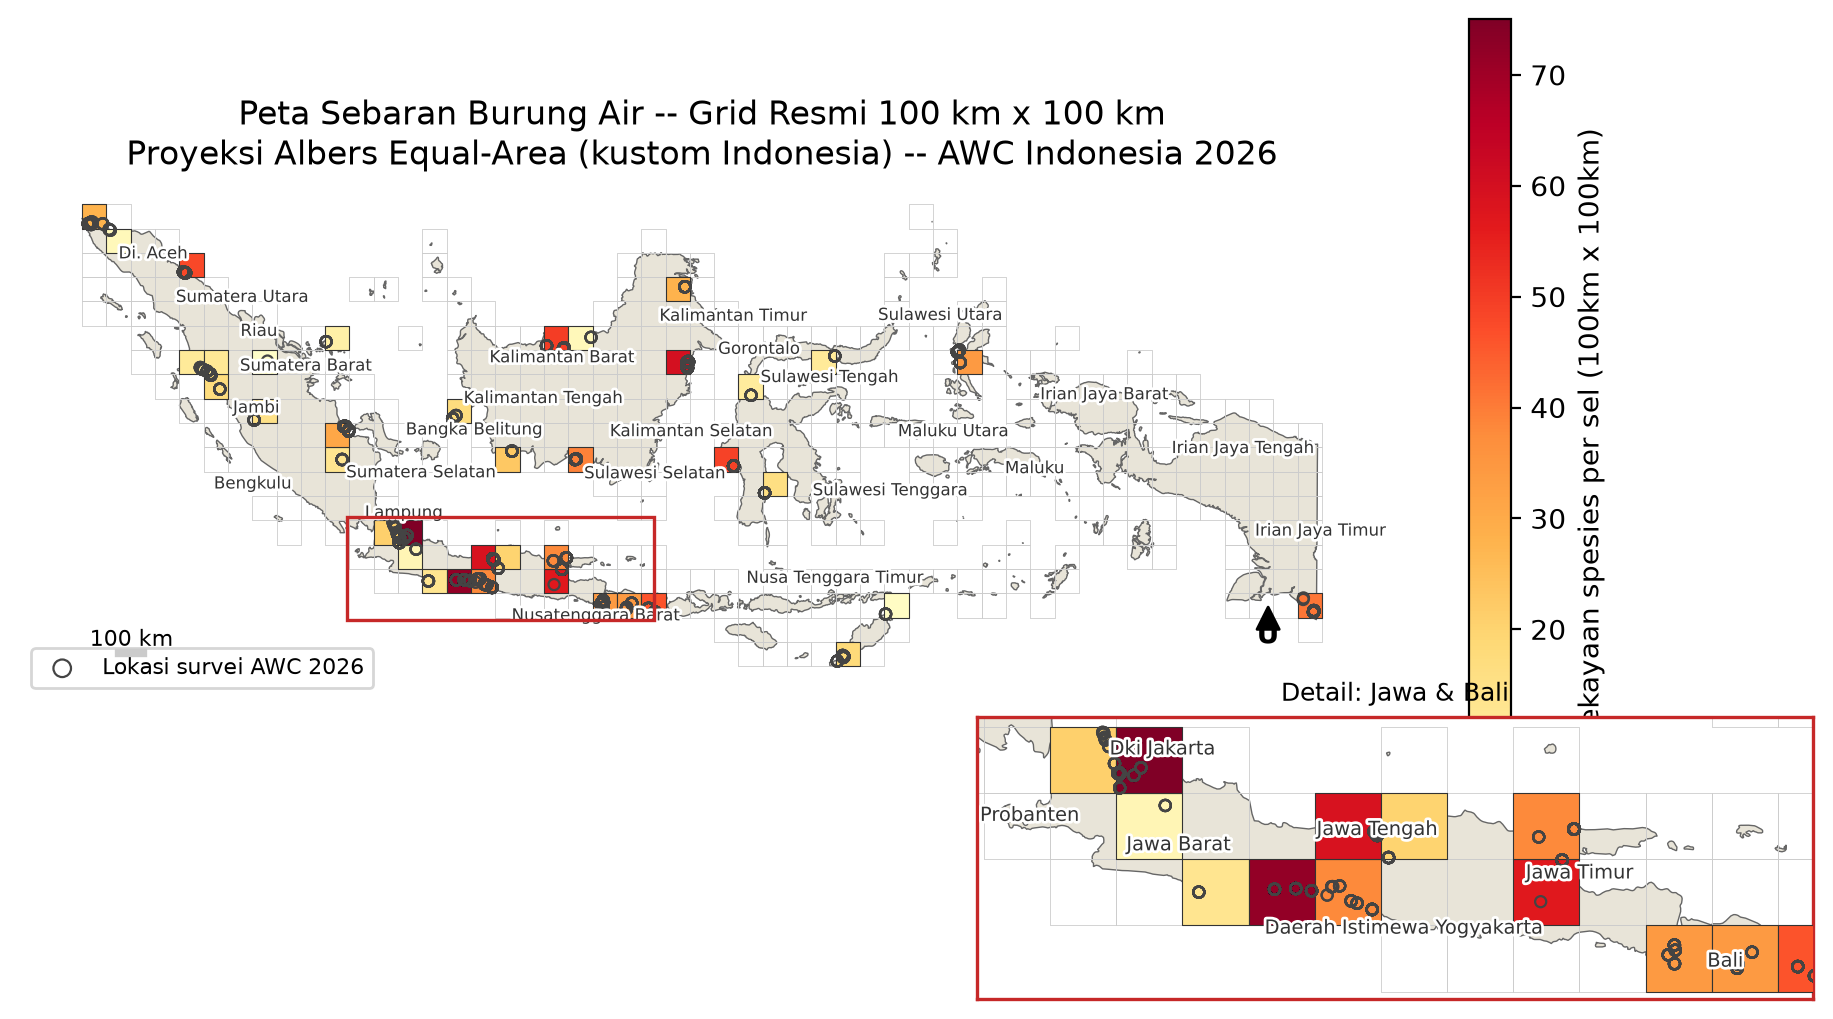
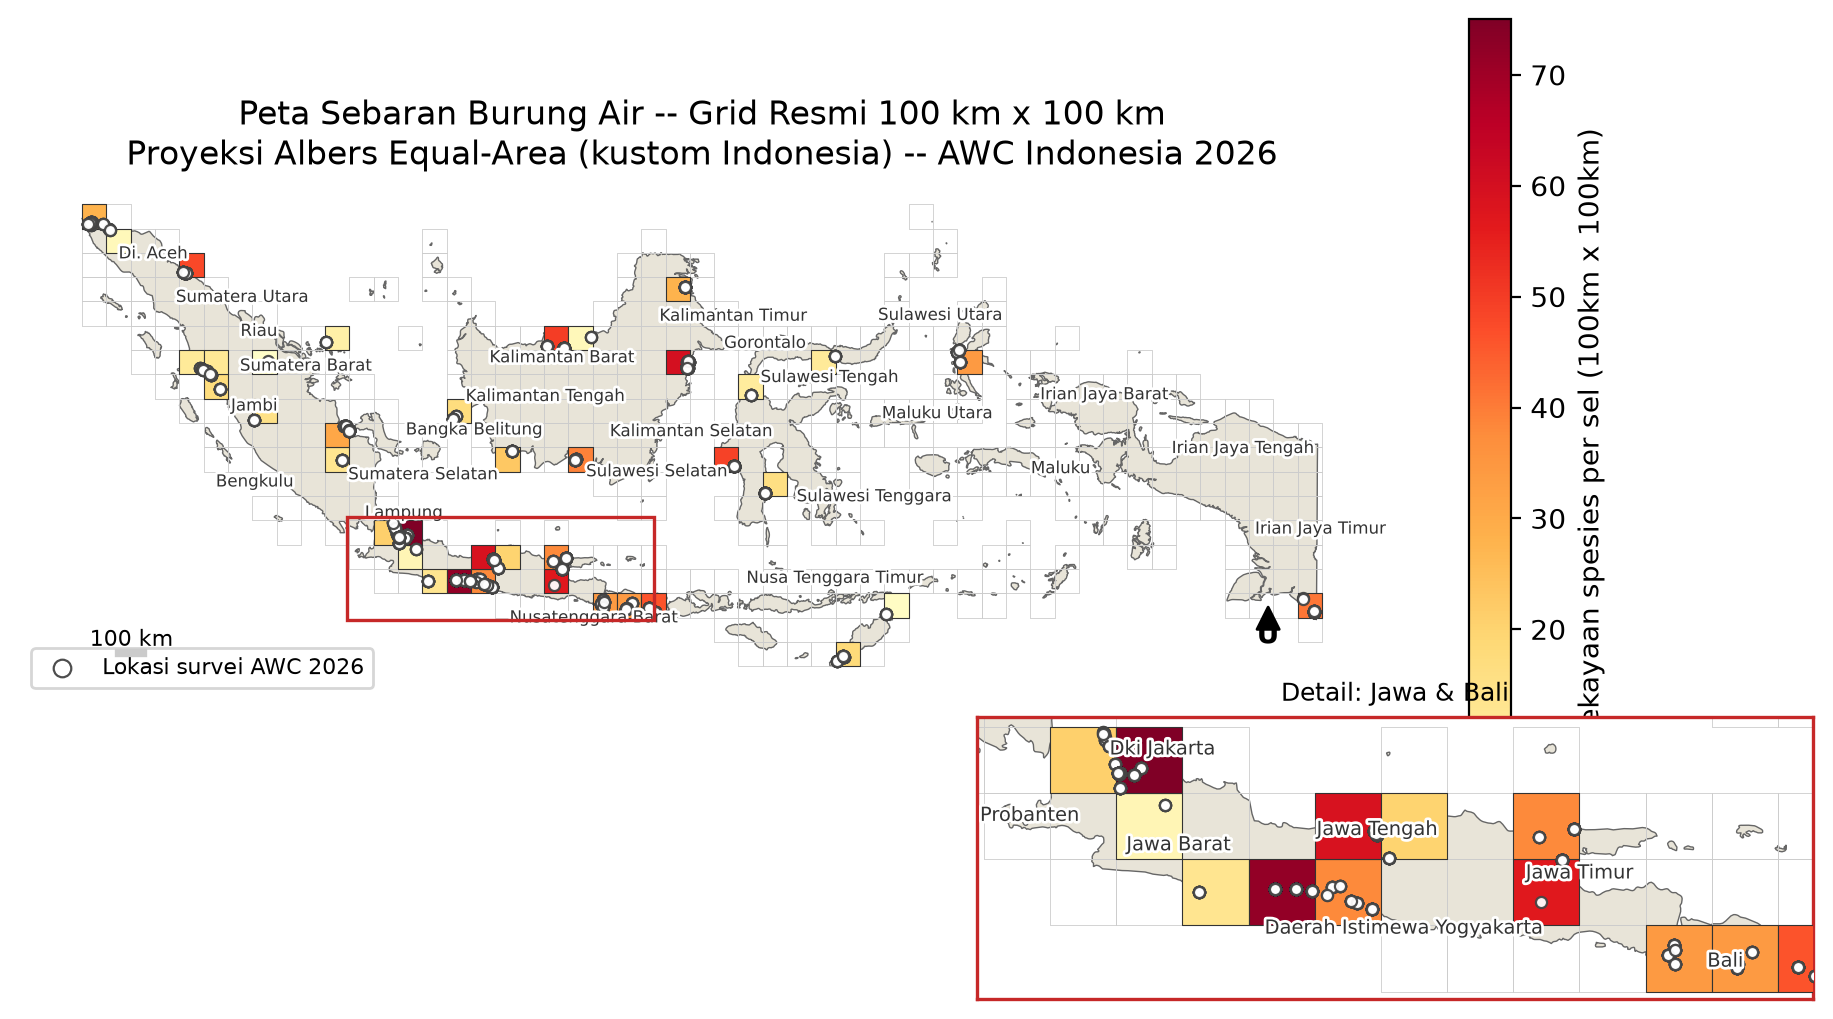
Revert point markers to solid white fill (not transparent/hollow)
Keeps the gray outline from the previous change but restores a solid
white fill so points read clearly against the yellow-orange-red grid
without looking dark or disconnected from the palette.

Claude-Session: https://claude.ai/code/session_016Pj44jN6xNgLdKYNy2bYcz

diff --git a/scripts/python/peta_grid_resmi_awc.py b/scripts/python/peta_grid_resmi_awc.py
@@ -123,7 +123,7 @@ def draw_layer(ax, boundary, grid, points, vmax) -> None:
         linewidth=0.4,
         zorder=3,
     )
-    points.plot(ax=ax, facecolor="none", edgecolor="#444444", linewidth=0.8, markersize=16, zorder=4)
+    points.plot(ax=ax, facecolor="white", edgecolor="#444444", linewidth=0.8, markersize=16, alpha=0.95, zorder=4)
 
 
 def add_labels(ax, provinces: gpd.GeoDataFrame, fontsize: float) -> list:
@@ -207,7 +207,7 @@ def plot_official_map(
         fontsize=12,
     )
     ax.set_axis_off()
-    ax.scatter([], [], facecolor="none", edgecolor="#444444", linewidth=0.8, s=40, label="Lokasi survei AWC 2026")
+    ax.scatter([], [], facecolor="white", edgecolor="#444444", linewidth=0.8, s=40, alpha=0.95, label="Lokasi survei AWC 2026")
     ax.legend(loc="lower left", fontsize=8, bbox_to_anchor=(0.0, -0.02))
 
     # Panel inset: zoom ke Jawa-Bali (provinsi terlalu rapat untuk peta utama).
